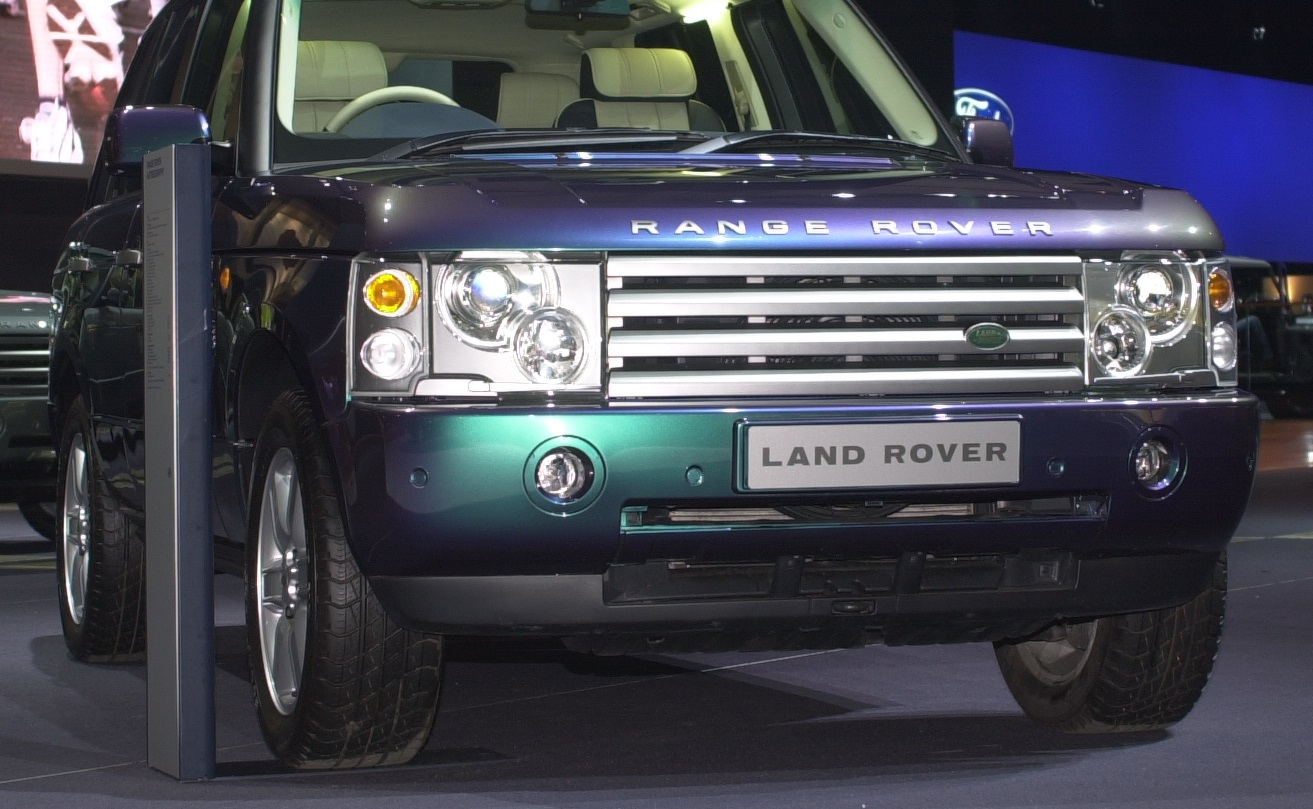
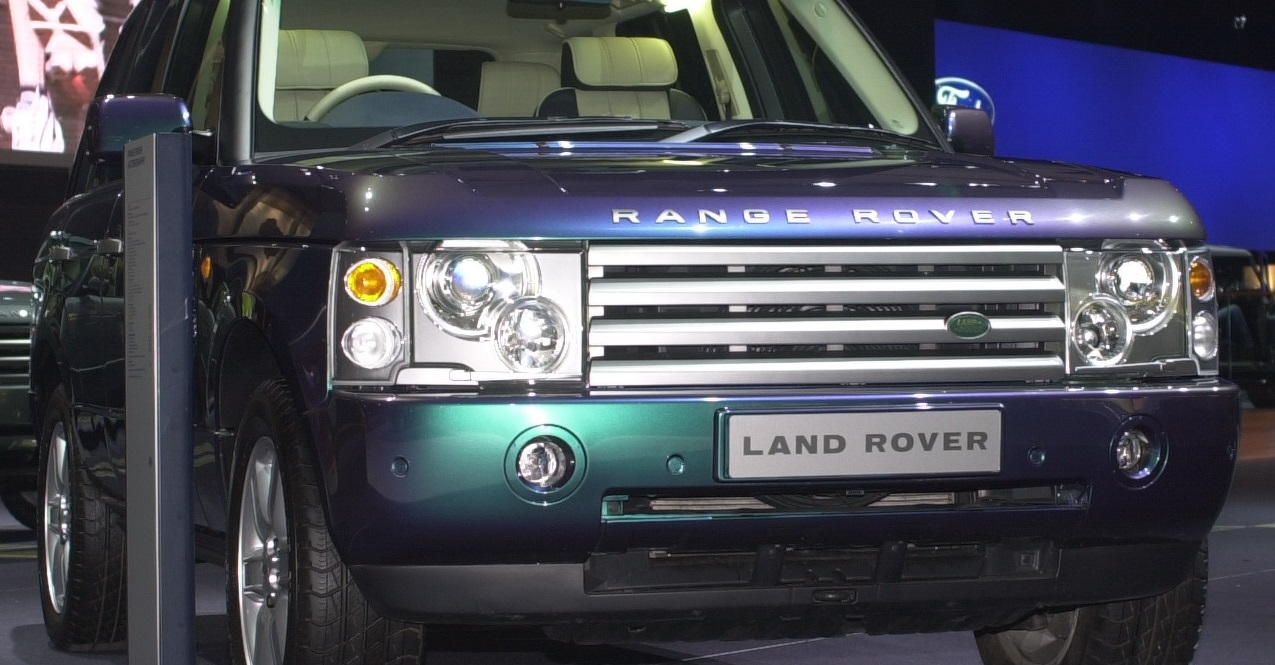
车型详情页替换图片

diff --git a/src/components/pages/Detailed.vue b/src/components/pages/Detailed.vue
@@ -43,9 +43,9 @@ export default {
       })
       .then(response => {
         this.cardata = response.data;
-        this.timg = require("../../assets/datu/" +
+        this.timg = require("../../assets/js/" +
           this.cardata.img +
-          ".jpg");
+          ".png");
       });
   },
   methods: {
